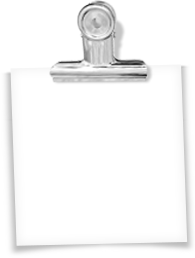
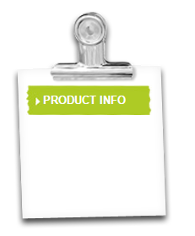
added partial for buy-purchase skin care - not added to all products. changed gitignore to ignore db file.

Changed region(s): [[0.0308, 0.0, 0.9846, 0.9788]]

diff --git a/css/style.css b/css/style.css
@@ -623,6 +623,7 @@ display: inline;
 
 .btn {
 text-align: left;
+border-radius: 0px;
 }
 
 .btn .caret {
@@ -763,6 +764,7 @@ border-top: 0 solid #e5e5e5;
 
 .popup-signin{
 color: #6ab235;
+margin-bottom: 20px;
 }
 
 /* PRODUCTS */
@@ -841,6 +843,7 @@ color: #6ab235;
 .bar-findout:hover{
 	color: #FFF !important;
 	text-decoration: underline;
+	cursor: pointer;
 }
 
 .leb-product{

diff --git a/_includes/skin-naturals/buy_purchase-skin_naturals-whitening.php b/_includes/skin-naturals/buy_purchase-skin_naturals-whitening.php
@@ -1,0 +1,94 @@
+<!-- Buy now button -->
+		<div class="row center" style="width:250px; margin-top:20px;">
+		
+		   <div class="col-xs-6 center">
+			  <a class="bar-findout" data-toggle="modal" data-target="#BuyNow"> &#9656; Buy Now </a>
+		   </div>
+		   
+		   <div class="modal fade" id="BuyNow" tabindex="-1" role="dialog" aria-labelledby="myModalLabel" aria-hidden="true">
+			  <div class="modal-dialog">
+				 <div class="modal-content">
+					<div class="modal-header">
+					   <h1 class="popup-signin">Get it now!</h1>
+					</div>
+					<div class="modal-body">
+					   <div class="col-md-12">
+						  <div class="row">
+							 <div class="col-xs-6">
+								<a href="https://online.guardian.com.my/index.php/pbrand/garnier-women.html" target="_blank"><img src="images/guardian.jpg"></a>
+							 </div>
+							 <div class="col-xs-6">
+								<a href="http://www.watsons.com.my/Product-Categories/c/Product_Categories?q=:masterBrandName:masterBrandName:GARNIER&text=#" target="_blank"><img src="images/watsons.jpg"></a>
+							 </div>
+						  </div>
+					   </div>
+					</div>
+					<div class="modal-footer">
+					</div>
+				 </div>
+			  </div>
+		   </div>
+<!-- Purchase now button -->		   
+		   <div class="col-xs-6">
+			  <a class="bar-findout" data-toggle="modal" href="#PurchaseNow"> &#9656; Purchase Now </a>
+		   </div>
+		   
+		   <div class="modal fade" id="PurchaseNow" tabindex="-1" role="dialog" aria-labelledby="myModalLabel" aria-hidden="true">
+			  <div class="modal-dialog">
+				 <div class="modal-content">
+					<div class="modal-header">
+					   <h1 class="popup-signin">Store locator</h1>
+					</div>
+					<div class="modal-body">
+					   <div class="col-md-12">
+						  <div class="row">
+							 <div class="col-xs-6">
+								<a href="https://www.guardian.com.my/stores" target="_blank"><img src="images/guardian.jpg"></a>
+							 </div>
+							 <div class="col-xs-6">
+								<a href="http://www.watsons.com.my/store-finder" target="_blank"><img src="images/watsons.jpg"></a>
+							 </div>
+						  </div>
+					   </div>
+					</div>
+					<div class="modal-footer">
+					</div>
+				 </div>
+			  </div>
+		   </div>
+		   
+		</div>	
+
+<!-- Check if it suits button -->		
+	<div class="row checkidout">
+	   <span class="col-xs-3">
+		<img src="images/bg-product-suits.png">
+	   </span>
+	   <span class="col-xs-9 check-text">
+			<a data-toggle="modal" href="#FindOut"> <b>Check if this product suits you</b> </a>
+	   </span>
+	</div>
+	
+		   <div class="modal fade center" id="FindOut" tabindex="-1" role="dialog" aria-labelledby="myModalLabel" aria-hidden="true">
+			  <div class="modal-dialog">
+				 <div class="modal-content">
+					<div class="modal-header">
+					   <h1 class="popup-signin">Does the product fit you?</h1>
+					</div>
+					<div class="modal-body">
+					   <div class="col-md-12">
+						  <div class="row">
+							 <div class="col-xs-6">
+								<a href="fym-garnier-skin-natural-whitening.php" class="btn btn-default"> &#9656; Find your match!</a>
+							 </div>
+							 <div class="col-xs-6">
+								<a href="#" class="btn btn-primary" data-dismiss="modal"> &#9656; It fits me!</a>
+							 </div>
+						  </div>
+					   </div>
+					</div>
+					<div class="modal-footer">
+					</div>
+				 </div>
+			  </div>
+		   </div>

diff --git a/_includes/skin-naturals/buy_purchase-skin_naturals-acne.php b/_includes/skin-naturals/buy_purchase-skin_naturals-acne.php
@@ -1,0 +1,94 @@
+<!-- Buy now button -->
+		<div class="row center" style="width:250px; margin-top:20px;">
+		
+		   <div class="col-xs-6 center">
+			  <a class="bar-findout" data-toggle="modal" data-target="#BuyNow"> &#9656; Buy Now </a>
+		   </div>
+		   
+		   <div class="modal fade" id="BuyNow" tabindex="-1" role="dialog" aria-labelledby="myModalLabel" aria-hidden="true">
+			  <div class="modal-dialog">
+				 <div class="modal-content">
+					<div class="modal-header">
+					   <h1 class="popup-signin">Get it now!</h1>
+					</div>
+					<div class="modal-body">
+					   <div class="col-md-12">
+						  <div class="row">
+							 <div class="col-xs-6">
+								<a href="https://online.guardian.com.my/index.php/pbrand/garnier-women.html" target="_blank"><img src="images/guardian.jpg"></a>
+							 </div>
+							 <div class="col-xs-6">
+								<a href="http://www.watsons.com.my/Product-Categories/c/Product_Categories?q=:masterBrandName:masterBrandName:GARNIER&text=#" target="_blank"><img src="images/watsons.jpg"></a>
+							 </div>
+						  </div>
+					   </div>
+					</div>
+					<div class="modal-footer">
+					</div>
+				 </div>
+			  </div>
+		   </div>
+<!-- Purchase now button -->		   
+		   <div class="col-xs-6">
+			  <a class="bar-findout" data-toggle="modal" href="#PurchaseNow"> &#9656; Purchase Now </a>
+		   </div>
+		   
+		   <div class="modal fade" id="PurchaseNow" tabindex="-1" role="dialog" aria-labelledby="myModalLabel" aria-hidden="true">
+			  <div class="modal-dialog">
+				 <div class="modal-content">
+					<div class="modal-header">
+					   <h1 class="popup-signin">Store locator</h1>
+					</div>
+					<div class="modal-body">
+					   <div class="col-md-12">
+						  <div class="row">
+							 <div class="col-xs-6">
+								<a href="https://www.guardian.com.my/stores" target="_blank"><img src="images/guardian.jpg"></a>
+							 </div>
+							 <div class="col-xs-6">
+								<a href="http://www.watsons.com.my/store-finder" target="_blank"><img src="images/watsons.jpg"></a>
+							 </div>
+						  </div>
+					   </div>
+					</div>
+					<div class="modal-footer">
+					</div>
+				 </div>
+			  </div>
+		   </div>
+		   
+		</div>	
+
+<!-- Check if it suits button -->		
+	<div class="row checkidout">
+	   <span class="col-xs-3">
+		<img src="images/bg-product-suits.png">
+	   </span>
+	   <span class="col-xs-9 check-text">
+			<a data-toggle="modal" href="#FindOut"> <b>Check if this product suits you</b> </a>
+	   </span>
+	</div>
+	
+		   <div class="modal fade center" id="FindOut" tabindex="-1" role="dialog" aria-labelledby="myModalLabel" aria-hidden="true">
+			  <div class="modal-dialog">
+				 <div class="modal-content">
+					<div class="modal-header">
+					   <h1 class="popup-signin">Does the product fit you?</h1>
+					</div>
+					<div class="modal-body">
+					   <div class="col-md-12">
+						  <div class="row">
+							 <div class="col-xs-6">
+								<a href="fym-garnier-skin-natural-acne.php" class="btn btn-default"> &#9656; Find your match!</a>
+							 </div>
+							 <div class="col-xs-6">
+								<a href="#" class="btn btn-primary" data-dismiss="modal"> &#9656; It fits me!</a>
+							 </div>
+						  </div>
+					   </div>
+					</div>
+					<div class="modal-footer">
+					</div>
+				 </div>
+			  </div>
+		   </div>

diff --git a/_includes/buy_purchase-skin_naturals.php b/_includes/buy_purchase-skin_naturals.php
@@ -1,0 +1,94 @@
+<!-- Buy now button -->
+		<div class="row center" style="width:250px; margin-top:20px;">
+		
+		   <div class="col-xs-6 center">
+			  <a class="bar-findout" data-toggle="modal" data-target="#BuyNow"> &#9656; Buy Now </a>
+		   </div>
+		   
+		   <div class="modal fade" id="BuyNow" tabindex="-1" role="dialog" aria-labelledby="myModalLabel" aria-hidden="true">
+			  <div class="modal-dialog">
+				 <div class="modal-content">
+					<div class="modal-header">
+					   <h1 class="popup-signin">Get it now!</h1>
+					</div>
+					<div class="modal-body">
+					   <div class="col-md-12">
+						  <div class="row">
+							 <div class="col-xs-6">
+								<a href="https://online.guardian.com.my/index.php/pbrand/garnier-women.html" target="_blank"><img src="images/guardian.jpg"></a>
+							 </div>
+							 <div class="col-xs-6">
+								<a href="http://www.watsons.com.my/Product-Categories/c/Product_Categories?q=:masterBrandName:masterBrandName:GARNIER&text=#" target="_blank"><img src="images/watsons.jpg"></a>
+							 </div>
+						  </div>
+					   </div>
+					</div>
+					<div class="modal-footer">
+					</div>
+				 </div>
+			  </div>
+		   </div>
+<!-- Purchase now button -->		   
+		   <div class="col-xs-6">
+			  <a class="bar-findout" data-toggle="modal" href="#PurchaseNow"> &#9656; Purchase Now </a>
+		   </div>
+		   
+		   <div class="modal fade" id="PurchaseNow" tabindex="-1" role="dialog" aria-labelledby="myModalLabel" aria-hidden="true">
+			  <div class="modal-dialog">
+				 <div class="modal-content">
+					<div class="modal-header">
+					   <h1 class="popup-signin">Store locator</h1>
+					</div>
+					<div class="modal-body">
+					   <div class="col-md-12">
+						  <div class="row">
+							 <div class="col-xs-6">
+								<a href="https://www.guardian.com.my/stores" target="_blank"><img src="images/guardian.jpg"></a>
+							 </div>
+							 <div class="col-xs-6">
+								<a href="http://www.watsons.com.my/store-finder" target="_blank"><img src="images/watsons.jpg"></a>
+							 </div>
+						  </div>
+					   </div>
+					</div>
+					<div class="modal-footer">
+					</div>
+				 </div>
+			  </div>
+		   </div>
+		   
+		</div>	
+
+<!-- Check if it suits button -->		
+	<div class="row checkidout">
+	   <span class="col-xs-3">
+		<img src="images/bg-product-suits.png">
+	   </span>
+	   <span class="col-xs-9 check-text">
+			<a data-toggle="modal" href="#FindOut"> <b>Check if this product suits you</b> </a>
+	   </span>
+	</div>
+	
+		   <div class="modal fade center" id="FindOut" tabindex="-1" role="dialog" aria-labelledby="myModalLabel" aria-hidden="true">
+			  <div class="modal-dialog">
+				 <div class="modal-content">
+					<div class="modal-header">
+					   <h1 class="popup-signin">Does the product fit you?</h1>
+					</div>
+					<div class="modal-body">
+					   <div class="col-md-12">
+						  <div class="row">
+							 <div class="col-xs-6">
+								<a href="fym-garnier-skin-natural-whitening.php" class="btn btn-default"> &#9656; Find your match!</a>
+							 </div>
+							 <div class="col-xs-6">
+								<a href="#" class="btn btn-primary"> &#9656; It fits me!</a>
+							 </div>
+						  </div>
+					   </div>
+					</div>
+					<div class="modal-footer">
+					</div>
+				 </div>
+			  </div>
+		   </div>

diff --git a/LC-LightCompleteWhiteSpeedMultiActionWhiteningCream8HoursShine-Free.php b/LC-LightCompleteWhiteSpeedMultiActionWhiteningCream8HoursShine-Free.php
@@ -52,7 +52,7 @@ include('_includes/header.php');
 											</span><br>
 										</div>
 										
-										<div class="product-ttl">Light Complete White SpeedTM Multi-Action Whitening Cream 8 Hours Shine-Free</div>
+										<div class="product-ttl">Light Complete White Speed<sup>TM</sup> Multi-Action Whitening Cream 8 Hours Shine-Free</div>
 										<p class="product-content">
 											Enriched with Whitening Vitamin B3, 50% extra Vitamin E, Pure Lemon Essence and Salicylic Acid derivatives, this formula give you even more complete benefits:
 
@@ -67,47 +67,11 @@ include('_includes/header.php');
 
 <!-- Link -->
 
-	<div class="row center" style="width:250px; margin-top:20px;">
-											<div class="col-xs-6 center">
-												<a class="bar-findout" data-toggle="modal" data-target="#BuyNow"> &#9656; Buy Now </a>
-											</div>
+	<?php
+		include('_includes/skin-naturals/buy_purchase-skin_naturals-whitening.php')
+	?>
 
-<div class="modal fade" id="BuyNow" tabindex="-1" role="dialog" aria-labelledby="myModalLabel" aria-hidden="true">
-								  <div class="modal-dialog">
-									    <div class="modal-content">
-										      <div class="modal-header">
-										        <h1 class="popup-signin">Get it now!</h1>
-										      </div>
-											      <div class="modal-body">
-											        <div class="col-md-12">
-								
-											        	<div class="row">
-											        		<div class="col-xs-6">
-											        			
-											        			<a href="http://www.watsons.com.my/Product-Categories/c/Product_Categories?q=:masterBrandName:masterBrandName:GARNIER&text=#"><img src="images/watsons.jpg"></a>
-											        		</div>
-											        		<div class="col-xs-6">
-											        			<a href="https://online.guardian.com.my/index.php/pbrand/garnier-women.html"><img src="images/guardian.jpg"></a>
-											        			
-											        		</div>
-											        		
-											        	</div>
-											        </div>
-											       
-										      </div>
-									      <div class="modal-footer">
-									      </div>
-									    </div>
-								  </div>
-							</div>
-
-
-											<div class="col-xs-6">
-												<a class="bar-findout" href="pdf/pdf.pdf"> &#9656; Purchase Now </a>
-											</div>
-										</div>
-
-<!-- End of Link -->
+<!-- End of Link 
 										<div class="row checkidout">
 											<span class="col-xs-3">
 												<img src="images/bg-product-suits.png">
@@ -115,7 +79,7 @@ include('_includes/header.php');
 											<span class="col-xs-9 check-text">
 												<b>Check if this product suits you</b>
 											</span>
-										</div>
+										</div> -->
 								</div>
 								</div>
 <!-- End of Products Details -->	
